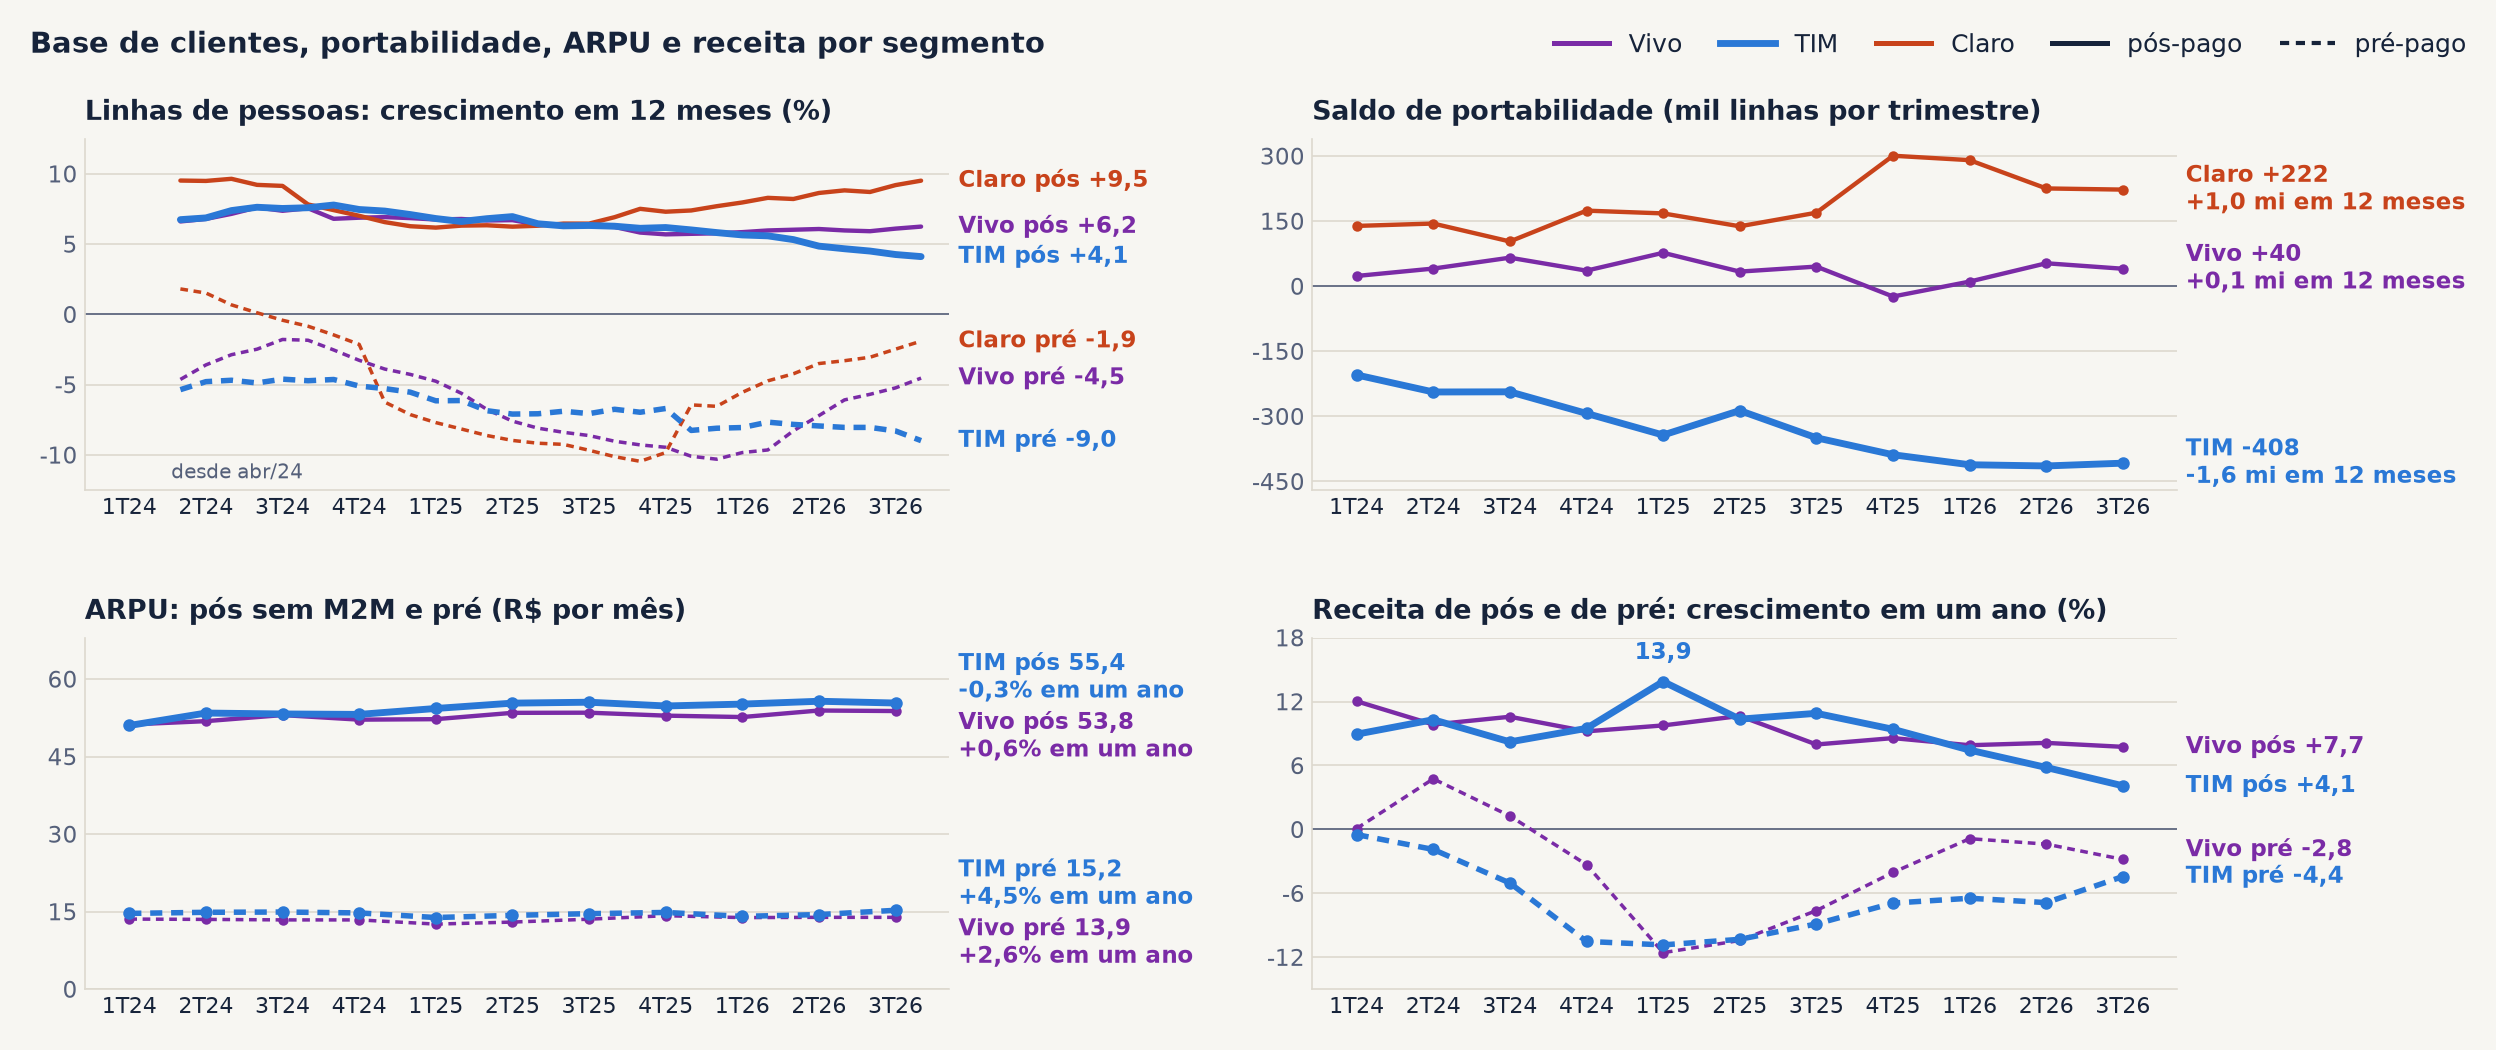
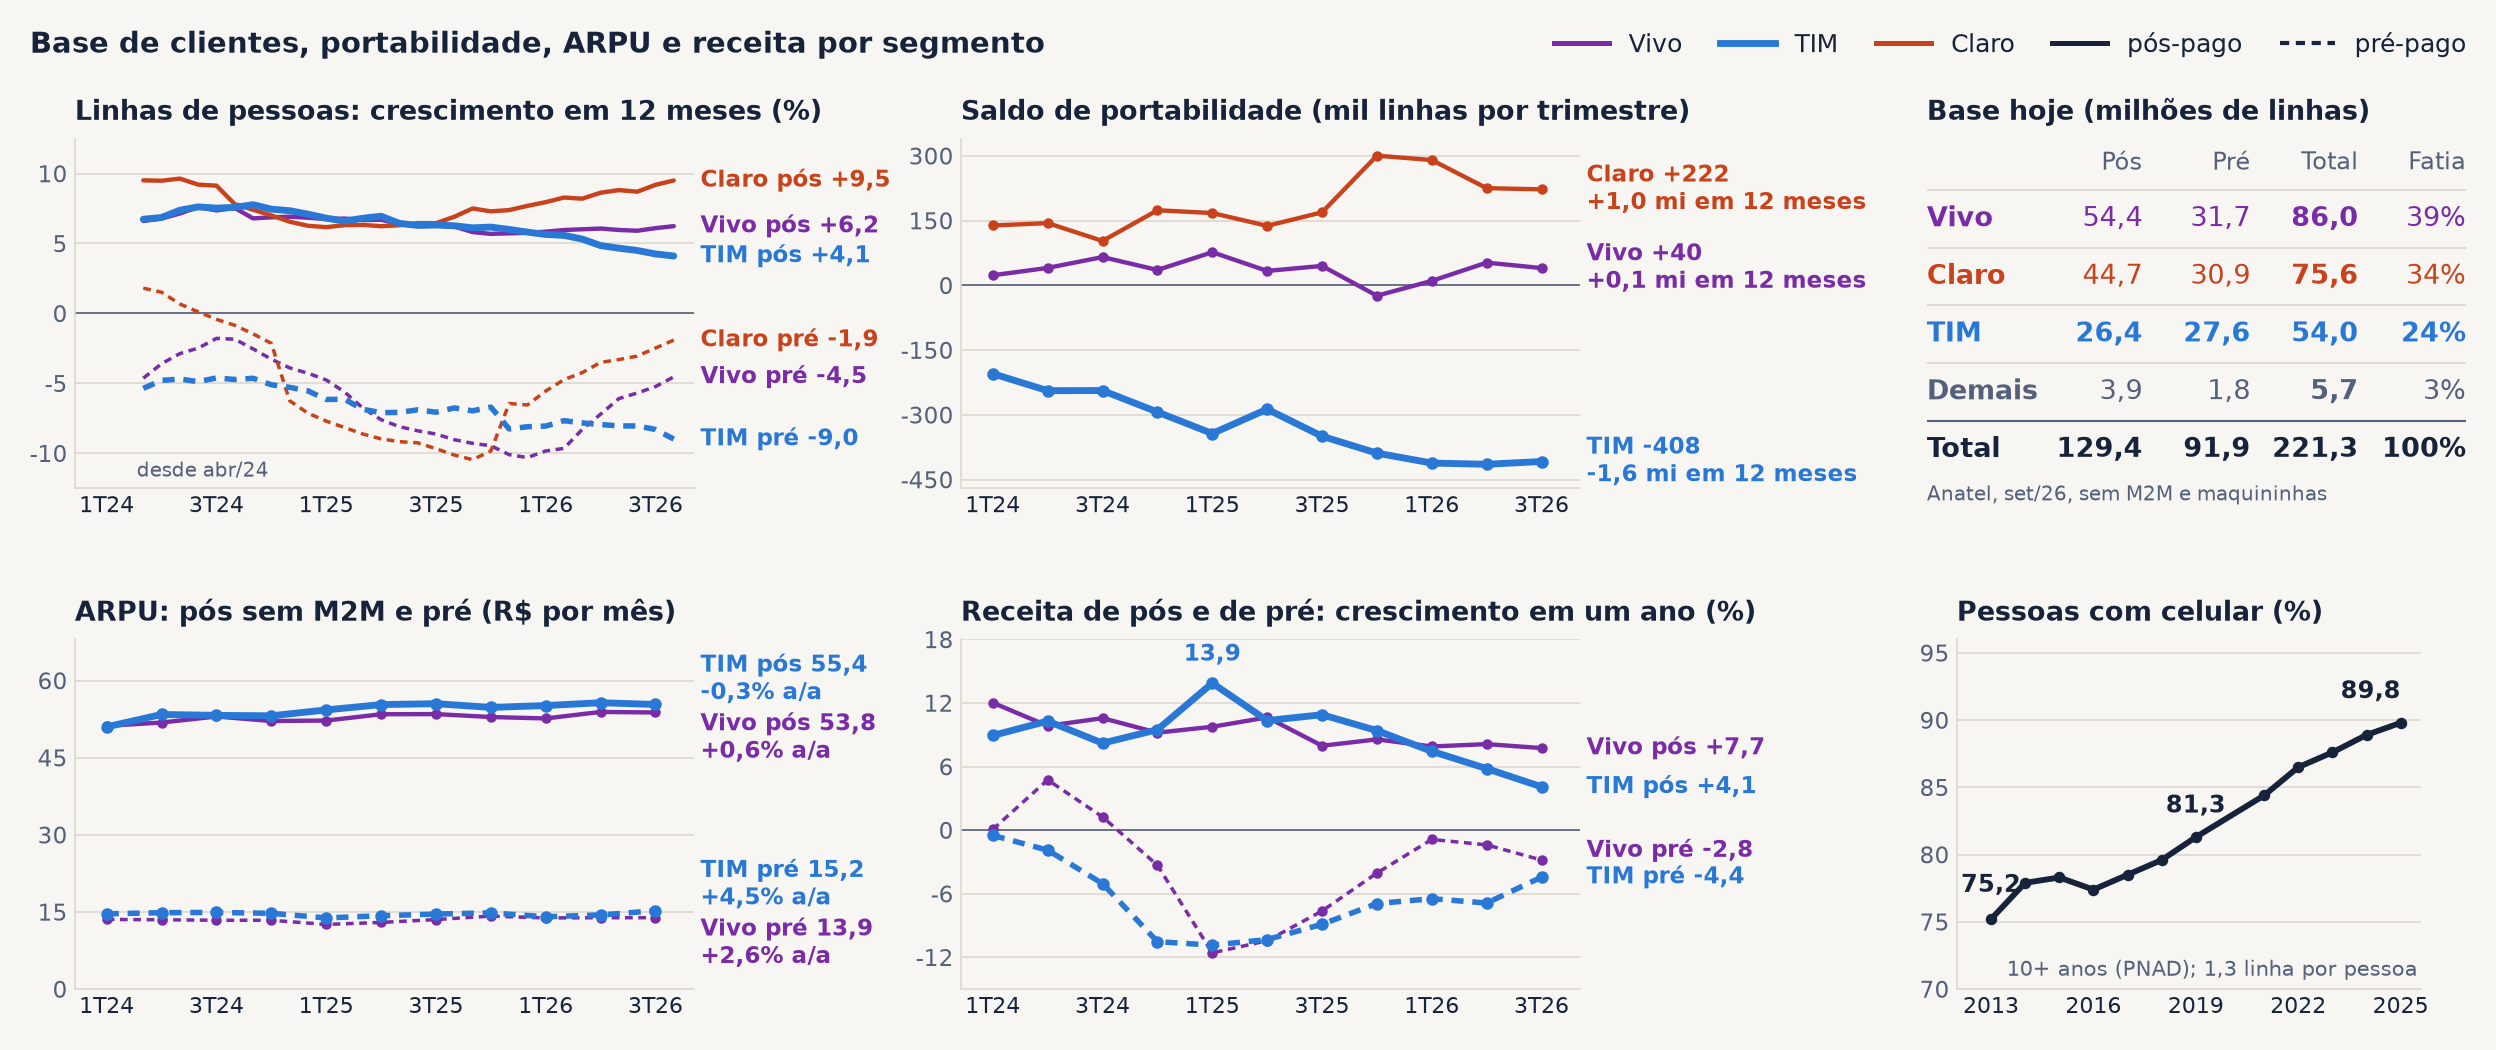
v3.2 · 24/11/2026 19:56 · slide 4 com o tamanho da base hoje e a penetração da PNAD
Tabela das linhas de pós, de pré e total por operadora em set/26 e
gráfico das pessoas de 10 anos ou mais com celular.

diff --git a/index.html b/index.html
@@ -40,7 +40,7 @@ h1, h2, h3 { font-family:'Space Grotesk', Arial, sans-serif; }
 <div id="palco">
 <section id="capa" class="capa" data-transition="fade">
 <div>
-<p class="chip">v3.1 · 24/11/2026 19:49</p>
+<p class="chip">v3.2 · 24/11/2026 19:56</p>
 </div>
 <div>
 <h1>Telecom Brasil: Vivo e TIM</h1>
@@ -65,9 +65,9 @@ h1, h2, h3 { font-family:'Space Grotesk', Arial, sans-serif; }
 <section id="base" data-transition="fade">
 <p class="olho">ABERTURA · BASE, PORTABILIDADE, ARPU E RECEITA POR SEGMENTO</p>
 <h2 class="titulo">TIM perde em todas as frentes: 1,6 milhão de linhas na portabilidade em 12 meses, pré -9,0% e receita de pós de 13,9% para 4,1% em seis trimestres</h2>
-<img class="graf" src="img/v4_base.png" alt="Quatro gráficos, de 2024 ao 3T26: crescimento em 12 meses das linhas de pós e de pré de Vivo, TIM e Claro; saldo de portabilidade por trimestre das três; ARPU de pós sem M2M e de pré de Vivo e TIM; crescimento em um ano da receita de pós e de pré de Vivo e TIM">
-<p class="fonte">Fonte: Anatel (linhas de pessoas sem M2M, de abr/24 a set/26; portabilidade numérica móvel até o 3T26; Claro inclui a NuCel) e planilhas de RI de Vivo e TIM (receita por segmento = ARPU vezes base média do trimestre).</p>
-<aside>Mesma base dos slides de base, portabilidade e ARPU do deck TMT e do slide de migração do deck Móvel Brasil. Linhas de pessoas (Anatel, sem M2M e maquininhas) em set/26, com o crescimento em 12 meses: pós, Claro 44,7 milhões (+9,5%), Vivo 54,4 (+6,2%) e TIM 26,4 (+4,1%); pré, Claro 30,9 (-1,9%), Vivo 31,7 (-4,5%) e TIM 27,6 (-9,0%). Em abr/24, primeiro mês comparável depois da Oi, o pós crescia 9,5% na Claro, 6,6% na Vivo e 6,7% na TIM: a TIM é a única que desacelera desde então. Antes da Oi, em mar/22: Claro 7,8%, Vivo 7,4% e TIM 5,2%. Portabilidade no 3T26: TIM -408 mil, Claro +222 mil e Vivo +40 mil; em doze meses, TIM -1,6 milhão, Claro +1,0 milhão e Vivo +0,1 milhão. A TIM perdia 198 mil por trimestre em 2023 e não tem saldo positivo desde 2017. Receita de pós da TIM, crescimento em um ano: 13,9% no 1T25, 10,3%, 10,9%, 9,4%, 7,4%, 5,8% e 4,1% no 3T26; na Vivo, 9,8%, 10,6%, 8,0%, 8,6%, 7,9%, 8,1% e 7,7%. O ARPU de pós da TIM ia a +6,5% no 1T25 e está em -0,3%. Contraponto: a receita de serviço móvel da TIM ainda cresce 4,0% e a margem EBITDA sobe; o que o slide mostra é perda de base e de ritmo, não queda de receita. Janela curta a pedido: as linhas começam em abr/24, primeiro mês em que a comparação com um ano antes não tem a entrada da Oi nem a limpeza das linhas; as séries longas (linhas desde 2019, portabilidade desde 2011, ARPU e receita desde 2015) estão no gerador. ARPU de pós sem M2M no 3T26: TIM R$ 55,4 (-0,3% em um ano) e Vivo R$ 53,8 (+0,6%); pré: TIM R$ 15,2 (+4,5%) e Vivo R$ 13,9 (+2,6%). Receita de pós no 3T26: Vivo R$ 8,5 bi (+7,7%) e TIM R$ 4,4 bi (+4,1%); pré: Vivo R$ 1,3 bi (-2,8%) e TIM R$ 1,3 bi (-4,4%). A receita por segmento é o ARPU divulgado vezes a base média do trimestre, não a linha de receita das companhias; na TIM, a série até o 1T19 é a pro forma da planilha de 2021.</aside>
+<img class="graf" src="img/v4_base.png" alt="Quatro gráficos, de 2024 ao 3T26: crescimento em 12 meses das linhas de pós e de pré de Vivo, TIM e Claro; saldo de portabilidade por trimestre das três; ARPU de pós sem M2M e de pré de Vivo e TIM; crescimento em um ano da receita de pós e de pré de Vivo e TIM. À direita, a tabela da base de hoje por operadora, em milhões de linhas de pós, de pré e no total, com a fatia de cada uma, e o gráfico da parcela das pessoas de 10 anos ou mais com celular, de 2013 a 2025">
+<p class="fonte">Fonte: Anatel (linhas de pessoas sem M2M até set/26; portabilidade numérica móvel até o 3T26; Claro inclui a NuCel), planilhas de RI de Vivo e TIM (receita por segmento = ARPU vezes base média) e IBGE, PNAD (pessoas de 10 anos ou mais com celular; sem pesquisa em 2020).</p>
+<aside>Base de hoje (Anatel, set/26, linhas de pessoas sem M2M e maquininhas), em milhões: Vivo 54,4 de pós e 31,7 de pré, total 86,0 (39% do país); Claro 44,7 e 30,9, total 75,6 (34%); TIM 26,4 e 27,6, total 54,0 (24%); demais prestadoras 3,9 e 1,8, total 5,7 (3%); país 129,4 de pós, 91,9 de pré e 221,3 no total. A TIM é a única das três com mais pré do que pós. Fora dessa conta ficam as linhas de máquina (M2M e maquininhas): Vivo 20,4 milhões, Claro 17,2, TIM 7,6 e demais 15,2. Penetração (IBGE, PNAD, pessoas de 10 anos ou mais com celular para uso pessoal): 75,2% em 2013, 81,3% em 2019, 86,5% em 2022 e 89,8% em 2025, cerca de 1 ponto por ano; com 186 milhões de pessoas de 10 anos ou mais, são cerca de 167 milhões com celular e 1,3 linha por pessoa. Os valores da PNAD vêm da planilha do estudo do deck Móvel Brasil e não foram reconferidos no IBGE nesta rodada.Mesma base dos slides de base, portabilidade e ARPU do deck TMT e do slide de migração do deck Móvel Brasil. Linhas de pessoas (Anatel, sem M2M e maquininhas) em set/26, com o crescimento em 12 meses: pós, Claro 44,7 milhões (+9,5%), Vivo 54,4 (+6,2%) e TIM 26,4 (+4,1%); pré, Claro 30,9 (-1,9%), Vivo 31,7 (-4,5%) e TIM 27,6 (-9,0%). Em abr/24, primeiro mês comparável depois da Oi, o pós crescia 9,5% na Claro, 6,6% na Vivo e 6,7% na TIM: a TIM é a única que desacelera desde então. Antes da Oi, em mar/22: Claro 7,8%, Vivo 7,4% e TIM 5,2%. Portabilidade no 3T26: TIM -408 mil, Claro +222 mil e Vivo +40 mil; em doze meses, TIM -1,6 milhão, Claro +1,0 milhão e Vivo +0,1 milhão. A TIM perdia 198 mil por trimestre em 2023 e não tem saldo positivo desde 2017. Receita de pós da TIM, crescimento em um ano: 13,9% no 1T25, 10,3%, 10,9%, 9,4%, 7,4%, 5,8% e 4,1% no 3T26; na Vivo, 9,8%, 10,6%, 8,0%, 8,6%, 7,9%, 8,1% e 7,7%. O ARPU de pós da TIM ia a +6,5% no 1T25 e está em -0,3%. Contraponto: a receita de serviço móvel da TIM ainda cresce 4,0% e a margem EBITDA sobe; o que o slide mostra é perda de base e de ritmo, não queda de receita. Janela curta a pedido: as linhas começam em abr/24, primeiro mês em que a comparação com um ano antes não tem a entrada da Oi nem a limpeza das linhas; as séries longas (linhas desde 2019, portabilidade desde 2011, ARPU e receita desde 2015) estão no gerador. ARPU de pós sem M2M no 3T26: TIM R$ 55,4 (-0,3% em um ano) e Vivo R$ 53,8 (+0,6%); pré: TIM R$ 15,2 (+4,5%) e Vivo R$ 13,9 (+2,6%). Receita de pós no 3T26: Vivo R$ 8,5 bi (+7,7%) e TIM R$ 4,4 bi (+4,1%); pré: Vivo R$ 1,3 bi (-2,8%) e TIM R$ 1,3 bi (-4,4%). A receita por segmento é o ARPU divulgado vezes a base média do trimestre, não a linha de receita das companhias; na TIM, a série até o 1T19 é a pro forma da planilha de 2021.</aside>
 </section>
 <section id="rol" data-transition="fade">
 <p class="olho">1 · DESACELERAÇÃO DA RECEITA LÍQUIDA</p>

diff --git a/README.md b/README.md
@@ -1,3 +1,3 @@
 # Telecom Brasil: Vivo e TIM
 
-Deck de telecom (v3.1 · 24/11/2026 19:49): o setor contra a inflação e o PIB, receita, margem, EBITDA, capex e arrendamento, lucro, payout, Fistel e valuation de Vivo e TIM.
+Deck de telecom (v3.2 · 24/11/2026 19:56): o setor contra a inflação e o PIB, receita, margem, EBITDA, capex e arrendamento, lucro, payout, Fistel e valuation de Vivo e TIM.
